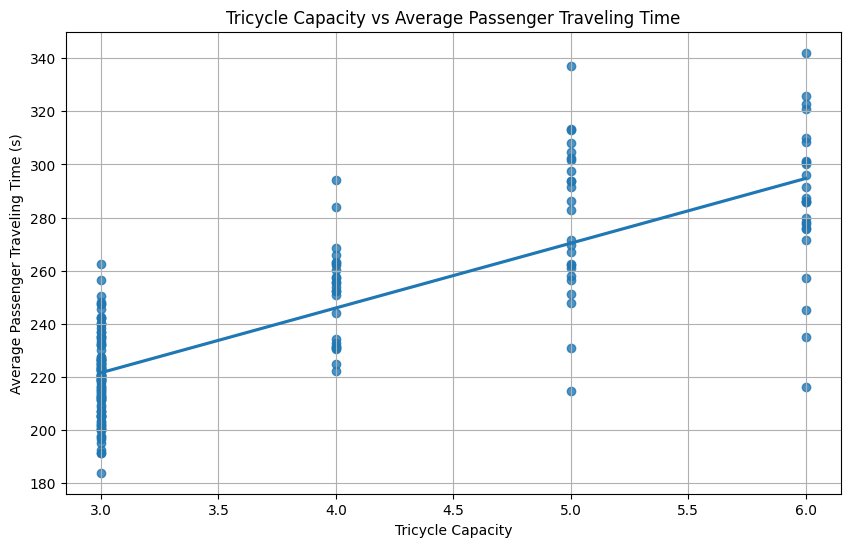
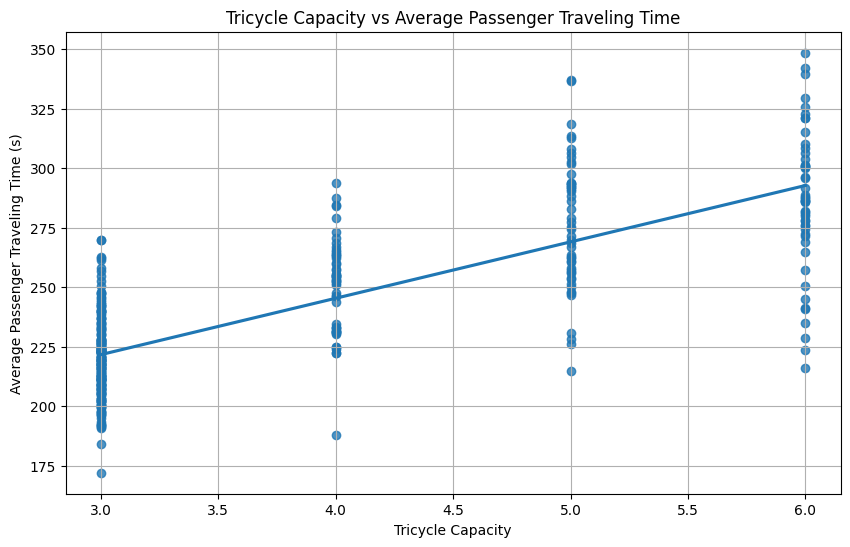
Simulation batch run 2

diff --git a/generator/test_generation.py b/generator/test_generation.py
@@ -12,6 +12,9 @@ sys.path.insert(0, generator_dir)
 from scenarios.real import Simulator
 import config
 
+# Global configuration
+NUM_RUNS = 50  # Number of runs per parameter combination
+
 def save_progress(all_results, data_dir):
     """Save current progress to a temporary file"""
     temp_file = os.path.join(data_dir, 'simulation_progress.json')
@@ -24,27 +27,6 @@ def load_progress(data_dir):
     if os.path.exists(temp_file):
         with open(temp_file, 'r') as f:
             return json.load(f)
-    return None
-
-def get_config_key(num_trikes, use_smart_scheduler, trike_capacity, s_enqueue_radius_meters, enqueue_radius_meters, maxCycles):
-    """Generate a unique key for a configuration"""
-    return (num_trikes, use_smart_scheduler, trike_capacity, s_enqueue_radius_meters, enqueue_radius_meters, maxCycles)
-
-def find_matching_simulation(all_results, config_key, seed_prefix):
-    """Find a simulation that matches the given configuration and hasn't been used for this group yet"""
-    used_seeds = {sim['metadata']['seed'] for sim in all_results['simulations'] if sim['metadata']['seed'].startswith(seed_prefix)}
-    
-    for sim in all_results['simulations']:
-        sim_key = get_config_key(
-            sim['metadata']['num_trikes'],
-            sim['metadata']['use_smart_scheduler'],
-            sim['metadata']['trike_capacity'],
-            sim['metadata']['s_enqueue_radius_meters'],
-            sim['metadata']['enqueue_radius_meters'],
-            sim['metadata']['maxCycles']
-        )
-        if sim_key == config_key and sim['metadata']['seed'] not in used_seeds:
-            return sim
     return None
 
 def run_simulation(num_trikes, use_smart_scheduler=True, trike_capacity=3, seed=None, max_retries=10, max_wait_time=300, s_enqueue_radius_meters=50, enqueue_radius_meters=200, maxCycles=2):
@@ -149,13 +131,13 @@ def run_simulation(num_trikes, use_smart_scheduler=True, trike_capacity=3, seed=
 
 def print_progress(group_a_completed, group_b_completed, group_c_completed, group_d_completed, 
                   completed_simulations, total_simulations, tricycle_counts, tricycle_capacities, 
-                  enqueue_radii, s_enqueue_radii, num_runs):
+                  enqueue_radii, s_enqueue_radii):
     """Print progress update for all groups"""
     print(f"\nProgress Update:")
-    print(f"Group A: {group_a_completed}/{len(tricycle_counts) * num_runs} simulations completed")
-    print(f"Group B: {group_b_completed}/{len(tricycle_capacities) * num_runs} simulations completed")
-    print(f"Group C: {group_c_completed}/{len(enqueue_radii) * num_runs} simulations completed")
-    print(f"Group D: {group_d_completed}/{len(s_enqueue_radii) * num_runs} simulations completed")
+    print(f"Group A: {group_a_completed}/{len(tricycle_counts) * NUM_RUNS} simulations completed")
+    print(f"Group B: {group_b_completed}/{len(tricycle_capacities) * NUM_RUNS} simulations completed")
+    print(f"Group C: {group_c_completed}/{len(enqueue_radii) * NUM_RUNS} simulations completed")
+    print(f"Group D: {group_d_completed}/{len(s_enqueue_radii) * NUM_RUNS} simulations completed")
     print(f"Overall: {completed_simulations}/{total_simulations} simulations completed ({(completed_simulations/total_simulations)*100:.1f}%)")
     print("########################################################")
 
@@ -177,14 +159,12 @@ def main():
     # Group D: Serving enqueue radius (fixed trikes=9, capacity=3, e_radius=100, maxCycles=2)
     s_enqueue_radii = [25, 50, 75, 100]
     
-    num_runs = 50  # Number of runs per parameter combination
-    
     # Calculate total number of simulations
     total_simulations = (
-        len(tricycle_counts) * num_runs +  # Group A
-        len(tricycle_capacities) * num_runs +  # Group B
-        len(enqueue_radii) * num_runs +  # Group C
-        len(s_enqueue_radii) * num_runs  # Group D
+        len(tricycle_counts) * NUM_RUNS +  # Group A
+        len(tricycle_capacities) * NUM_RUNS +  # Group B
+        len(enqueue_radii) * NUM_RUNS +  # Group C
+        len(s_enqueue_radii) * NUM_RUNS  # Group D
     )
     
     # Try to load existing progress
@@ -195,19 +175,6 @@ def main():
             'simulations': []
         }
     
-    # Track completed configurations (without seeds)
-    completed_configs = {
-        get_config_key(
-            sim['metadata']['num_trikes'],
-            sim['metadata']['use_smart_scheduler'],
-            sim['metadata']['trike_capacity'],
-            sim['metadata']['s_enqueue_radius_meters'],
-            sim['metadata']['enqueue_radius_meters'],
-            sim['metadata']['maxCycles']
-        )
-        for sim in all_results['simulations']
-    }
-
     # Initialize progress counters
     completed_simulations = len(all_results['simulations'])
     group_a_completed = sum(1 for sim in all_results['simulations'] if sim['metadata'].get('seed', '').startswith('groupA_'))
@@ -218,167 +185,99 @@ def main():
     def update_progress():
         print_progress(group_a_completed, group_b_completed, group_c_completed, group_d_completed,
                       completed_simulations, total_simulations, tricycle_counts, tricycle_capacities,
-                      enqueue_radii, s_enqueue_radii, num_runs)
+                      enqueue_radii, s_enqueue_radii)
 
     # Group A: Number of tricycles analysis
     print("\n=== Running Group A: Number of Tricycles Analysis ===")
     for num_trikes in tricycle_counts:
-        for run in range(num_runs):
+        for run in range(NUM_RUNS):
             seed = f"groupA_{num_trikes}_{run}"
-            config_key = get_config_key(num_trikes, True, 3, 50, 100, 2)
-            
-            # Check if we already have this configuration
-            existing_sim = find_matching_simulation(all_results, config_key, 'groupA_')
-            if existing_sim:
-                print(f"\nReusing existing simulation for Group A - Number of Tricycles: {num_trikes}")
-                print(f"Configuration: capacity=3, s_radius=50, e_radius=100, maxCycles=2")
-                # Copy the existing simulation with a new seed
-                new_sim = existing_sim.copy()
-                new_sim['metadata']['seed'] = seed
-                all_results['simulations'].append(new_sim)
+            print(f"\nTesting Group A - Number of Tricycles: {num_trikes}")
+            print(f"Fixed parameters: capacity=3, s_radius=50, e_radius=100, maxCycles=2")
+            results = run_simulation(
+                num_trikes,
+                use_smart_scheduler=True,
+                trike_capacity=3,
+                seed=seed,
+                s_enqueue_radius_meters=50,
+                enqueue_radius_meters=100,
+                maxCycles=2
+            )
+            if results:
+                all_results['simulations'].append(results)
                 save_progress(all_results, data_dir)
                 completed_simulations += 1
                 group_a_completed += 1
                 update_progress()
-            elif config_key not in completed_configs:
-                print(f"\nTesting Group A - Number of Tricycles: {num_trikes}")
-                print(f"Fixed parameters: capacity=3, s_radius=50, e_radius=100, maxCycles=2")
-                results = run_simulation(
-                    num_trikes,
-                    use_smart_scheduler=True,
-                    trike_capacity=3,
-                    seed=seed,
-                    s_enqueue_radius_meters=50,
-                    enqueue_radius_meters=100,
-                    maxCycles=2
-                )
-                if results:
-                    all_results['simulations'].append(results)
-                    completed_configs.add(config_key)
-                    save_progress(all_results, data_dir)
-                    completed_simulations += 1
-                    group_a_completed += 1
-                    update_progress()
 
     # Group B: Tricycle capacity analysis
     print("\n=== Running Group B: Tricycle Capacity Analysis ===")
     for capacity in tricycle_capacities:
-        for run in range(num_runs):
+        for run in range(NUM_RUNS):
             seed = f"groupB_{capacity}_{run}"
-            config_key = get_config_key(9, True, capacity, 50, 100, 2)
-            
-            # Check if we already have this configuration
-            existing_sim = find_matching_simulation(all_results, config_key, 'groupB_')
-            if existing_sim:
-                print(f"\nReusing existing simulation for Group B - Tricycle Capacity: {capacity}")
-                print(f"Configuration: trikes=9, s_radius=50, e_radius=100, maxCycles=2")
-                # Copy the existing simulation with a new seed
-                new_sim = existing_sim.copy()
-                new_sim['metadata']['seed'] = seed
-                all_results['simulations'].append(new_sim)
+            print(f"\nTesting Group B - Tricycle Capacity: {capacity}")
+            print(f"Fixed parameters: trikes=9, s_radius=50, e_radius=100, maxCycles=2")
+            results = run_simulation(
+                9,  # Fixed number of tricycles
+                use_smart_scheduler=True,
+                trike_capacity=capacity,
+                seed=seed,
+                s_enqueue_radius_meters=50,
+                enqueue_radius_meters=100,
+                maxCycles=2
+            )
+            if results:
+                all_results['simulations'].append(results)
                 save_progress(all_results, data_dir)
                 completed_simulations += 1
                 group_b_completed += 1
                 update_progress()
-            elif config_key not in completed_configs:
-                print(f"\nTesting Group B - Tricycle Capacity: {capacity}")
-                print(f"Fixed parameters: trikes=9, s_radius=50, e_radius=100, maxCycles=2")
-                results = run_simulation(
-                    9,  # Fixed number of tricycles
-                    use_smart_scheduler=True,
-                    trike_capacity=capacity,
-                    seed=seed,
-                    s_enqueue_radius_meters=50,
-                    enqueue_radius_meters=100,
-                    maxCycles=2
-                )
-                if results:
-                    all_results['simulations'].append(results)
-                    completed_configs.add(config_key)
-                    save_progress(all_results, data_dir)
-                    completed_simulations += 1
-                    group_b_completed += 1
-                    update_progress()
 
     # Group C: Enqueue radius analysis
     print("\n=== Running Group C: Enqueue Radius Analysis ===")
     for radius in enqueue_radii:
-        for run in range(num_runs):
+        for run in range(NUM_RUNS):
             seed = f"groupC_{radius}_{run}"
-            config_key = get_config_key(9, True, 3, 50, radius, 2)
-            
-            # Check if we already have this configuration
-            existing_sim = find_matching_simulation(all_results, config_key, 'groupC_')
-            if existing_sim:
-                print(f"\nReusing existing simulation for Group C - Enqueue Radius: {radius} meters")
-                print(f"Configuration: trikes=9, capacity=3, s_radius=50, maxCycles=2")
-                # Copy the existing simulation with a new seed
-                new_sim = existing_sim.copy()
-                new_sim['metadata']['seed'] = seed
-                all_results['simulations'].append(new_sim)
+            print(f"\nTesting Group C - Enqueue Radius: {radius} meters")
+            print(f"Fixed parameters: trikes=9, capacity=3, s_radius=50, maxCycles=2")
+            results = run_simulation(
+                9,  # Fixed number of tricycles
+                use_smart_scheduler=True,
+                trike_capacity=3,
+                seed=seed,
+                s_enqueue_radius_meters=50,
+                enqueue_radius_meters=radius,
+                maxCycles=2
+            )
+            if results:
+                all_results['simulations'].append(results)
                 save_progress(all_results, data_dir)
                 completed_simulations += 1
                 group_c_completed += 1
                 update_progress()
-            elif config_key not in completed_configs:
-                print(f"\nTesting Group C - Enqueue Radius: {radius} meters")
-                print(f"Fixed parameters: trikes=9, capacity=3, s_radius=50, maxCycles=2")
-                results = run_simulation(
-                    9,  # Fixed number of tricycles
-                    use_smart_scheduler=True,
-                    trike_capacity=3,
-                    seed=seed,
-                    s_enqueue_radius_meters=50,
-                    enqueue_radius_meters=radius,
-                    maxCycles=2
-                )
-                if results:
-                    all_results['simulations'].append(results)
-                    completed_configs.add(config_key)
-                    save_progress(all_results, data_dir)
-                    completed_simulations += 1
-                    group_c_completed += 1
-                    update_progress()
 
     # Group D: Serving enqueue radius analysis
     print("\n=== Running Group D: Serving Enqueue Radius Analysis ===")
     for radius in s_enqueue_radii:
-        for run in range(num_runs):
+        for run in range(NUM_RUNS):
             seed = f"groupD_{radius}_{run}"
-            config_key = get_config_key(9, True, 3, radius, 100, 2)
-            
-            # Check if we already have this configuration
-            existing_sim = find_matching_simulation(all_results, config_key, 'groupD_')
-            if existing_sim:
-                print(f"\nReusing existing simulation for Group D - Serving Enqueue Radius: {radius} meters")
-                print(f"Configuration: trikes=9, capacity=3, e_radius=100, maxCycles=2")
-                # Copy the existing simulation with a new seed
-                new_sim = existing_sim.copy()
-                new_sim['metadata']['seed'] = seed
-                all_results['simulations'].append(new_sim)
+            print(f"\nTesting Group D - Serving Enqueue Radius: {radius} meters")
+            print(f"Fixed parameters: trikes=9, capacity=3, e_radius=100, maxCycles=2")
+            results = run_simulation(
+                9,  # Fixed number of tricycles
+                use_smart_scheduler=True,
+                trike_capacity=3,
+                seed=seed,
+                s_enqueue_radius_meters=radius,
+                enqueue_radius_meters=100,
+                maxCycles=2
+            )
+            if results:
+                all_results['simulations'].append(results)
                 save_progress(all_results, data_dir)
                 completed_simulations += 1
                 group_d_completed += 1
                 update_progress()
-            elif config_key not in completed_configs:
-                print(f"\nTesting Group D - Serving Enqueue Radius: {radius} meters")
-                print(f"Fixed parameters: trikes=9, capacity=3, e_radius=100, maxCycles=2")
-                results = run_simulation(
-                    9,  # Fixed number of tricycles
-                    use_smart_scheduler=True,
-                    trike_capacity=3,
-                    seed=seed,
-                    s_enqueue_radius_meters=radius,
-                    enqueue_radius_meters=100,
-                    maxCycles=2
-                )
-                if results:
-                    all_results['simulations'].append(results)
-                    completed_configs.add(config_key)
-                    save_progress(all_results, data_dir)
-                    completed_simulations += 1
-                    group_d_completed += 1
-                    update_progress()
 
     # Save final results
     final_file = os.path.join(data_dir, f'simulation_results_{datetime.now().strftime("%Y%m%d_%H%M%S")}.json')
@@ -391,10 +290,10 @@ def main():
         os.remove(progress_file)
 
     print(f"\nFinal Progress Summary:")
-    print(f"Group A: {group_a_completed}/{len(tricycle_counts) * num_runs} simulations completed")
-    print(f"Group B: {group_b_completed}/{len(tricycle_capacities) * num_runs} simulations completed")
-    print(f"Group C: {group_c_completed}/{len(enqueue_radii) * num_runs} simulations completed")
-    print(f"Group D: {group_d_completed}/{len(s_enqueue_radii) * num_runs} simulations completed")
+    print(f"Group A: {group_a_completed}/{len(tricycle_counts) * NUM_RUNS} simulations completed")
+    print(f"Group B: {group_b_completed}/{len(tricycle_capacities) * NUM_RUNS} simulations completed")
+    print(f"Group C: {group_c_completed}/{len(enqueue_radii) * NUM_RUNS} simulations completed")
+    print(f"Group D: {group_d_completed}/{len(s_enqueue_radii) * NUM_RUNS} simulations completed")
     print(f"Total simulations completed: {completed_simulations}/{total_simulations} ({(completed_simulations/total_simulations)*100:.1f}%)")
     print(f"Final results saved to: {final_file}")
 
